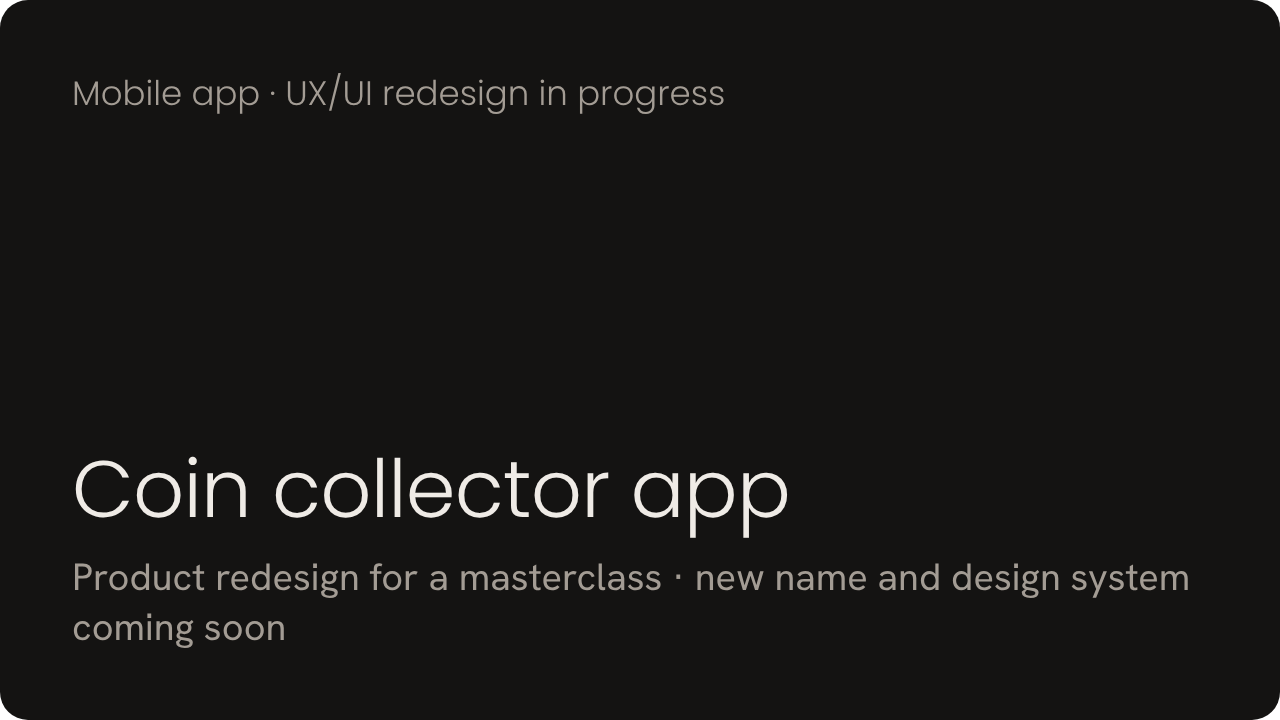
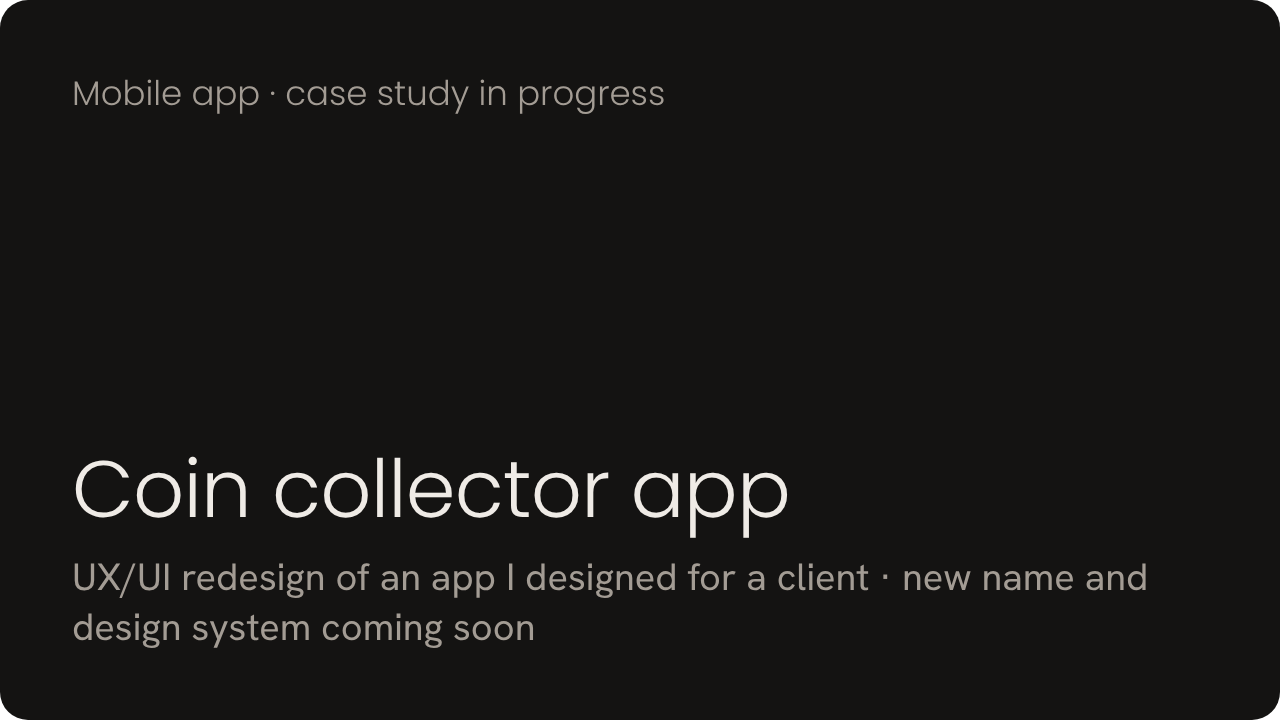
Collector app card: present as client-based case study
Claude-Session: https://claude.ai/code/session_01V5LBZ9PZDRPrRVfDamTeTo

Changed region(s): [[0.0625, 0.7639, 0.9375, 0.825], [0.0625, 0.8556, 0.4375, 0.9167], [0.2188, 0.0917, 0.5625, 0.1528]]

diff --git a/README.md b/README.md
@@ -48,7 +48,7 @@ For more than a decade I've worked with food, hospitality, beauty and culture br
   <img src="assets/card-luva-baby.png" alt="Luva baby — brand and landing page" width="49%">
 </p>
 <p>
-  <img src="assets/card-collector-app.png" alt="Coin collector app — UX/UI redesign in progress for a masterclass, new name coming soon" width="49%">
+  <img src="assets/card-collector-app.png" alt="Coin collector app — case study: UX/UI redesign of an app I designed for a client" width="49%">
   <img src="assets/card-mamma-mia.png" alt="Pizzería Mamma Mía — React web app" width="49%">
 </p>
 <p>
